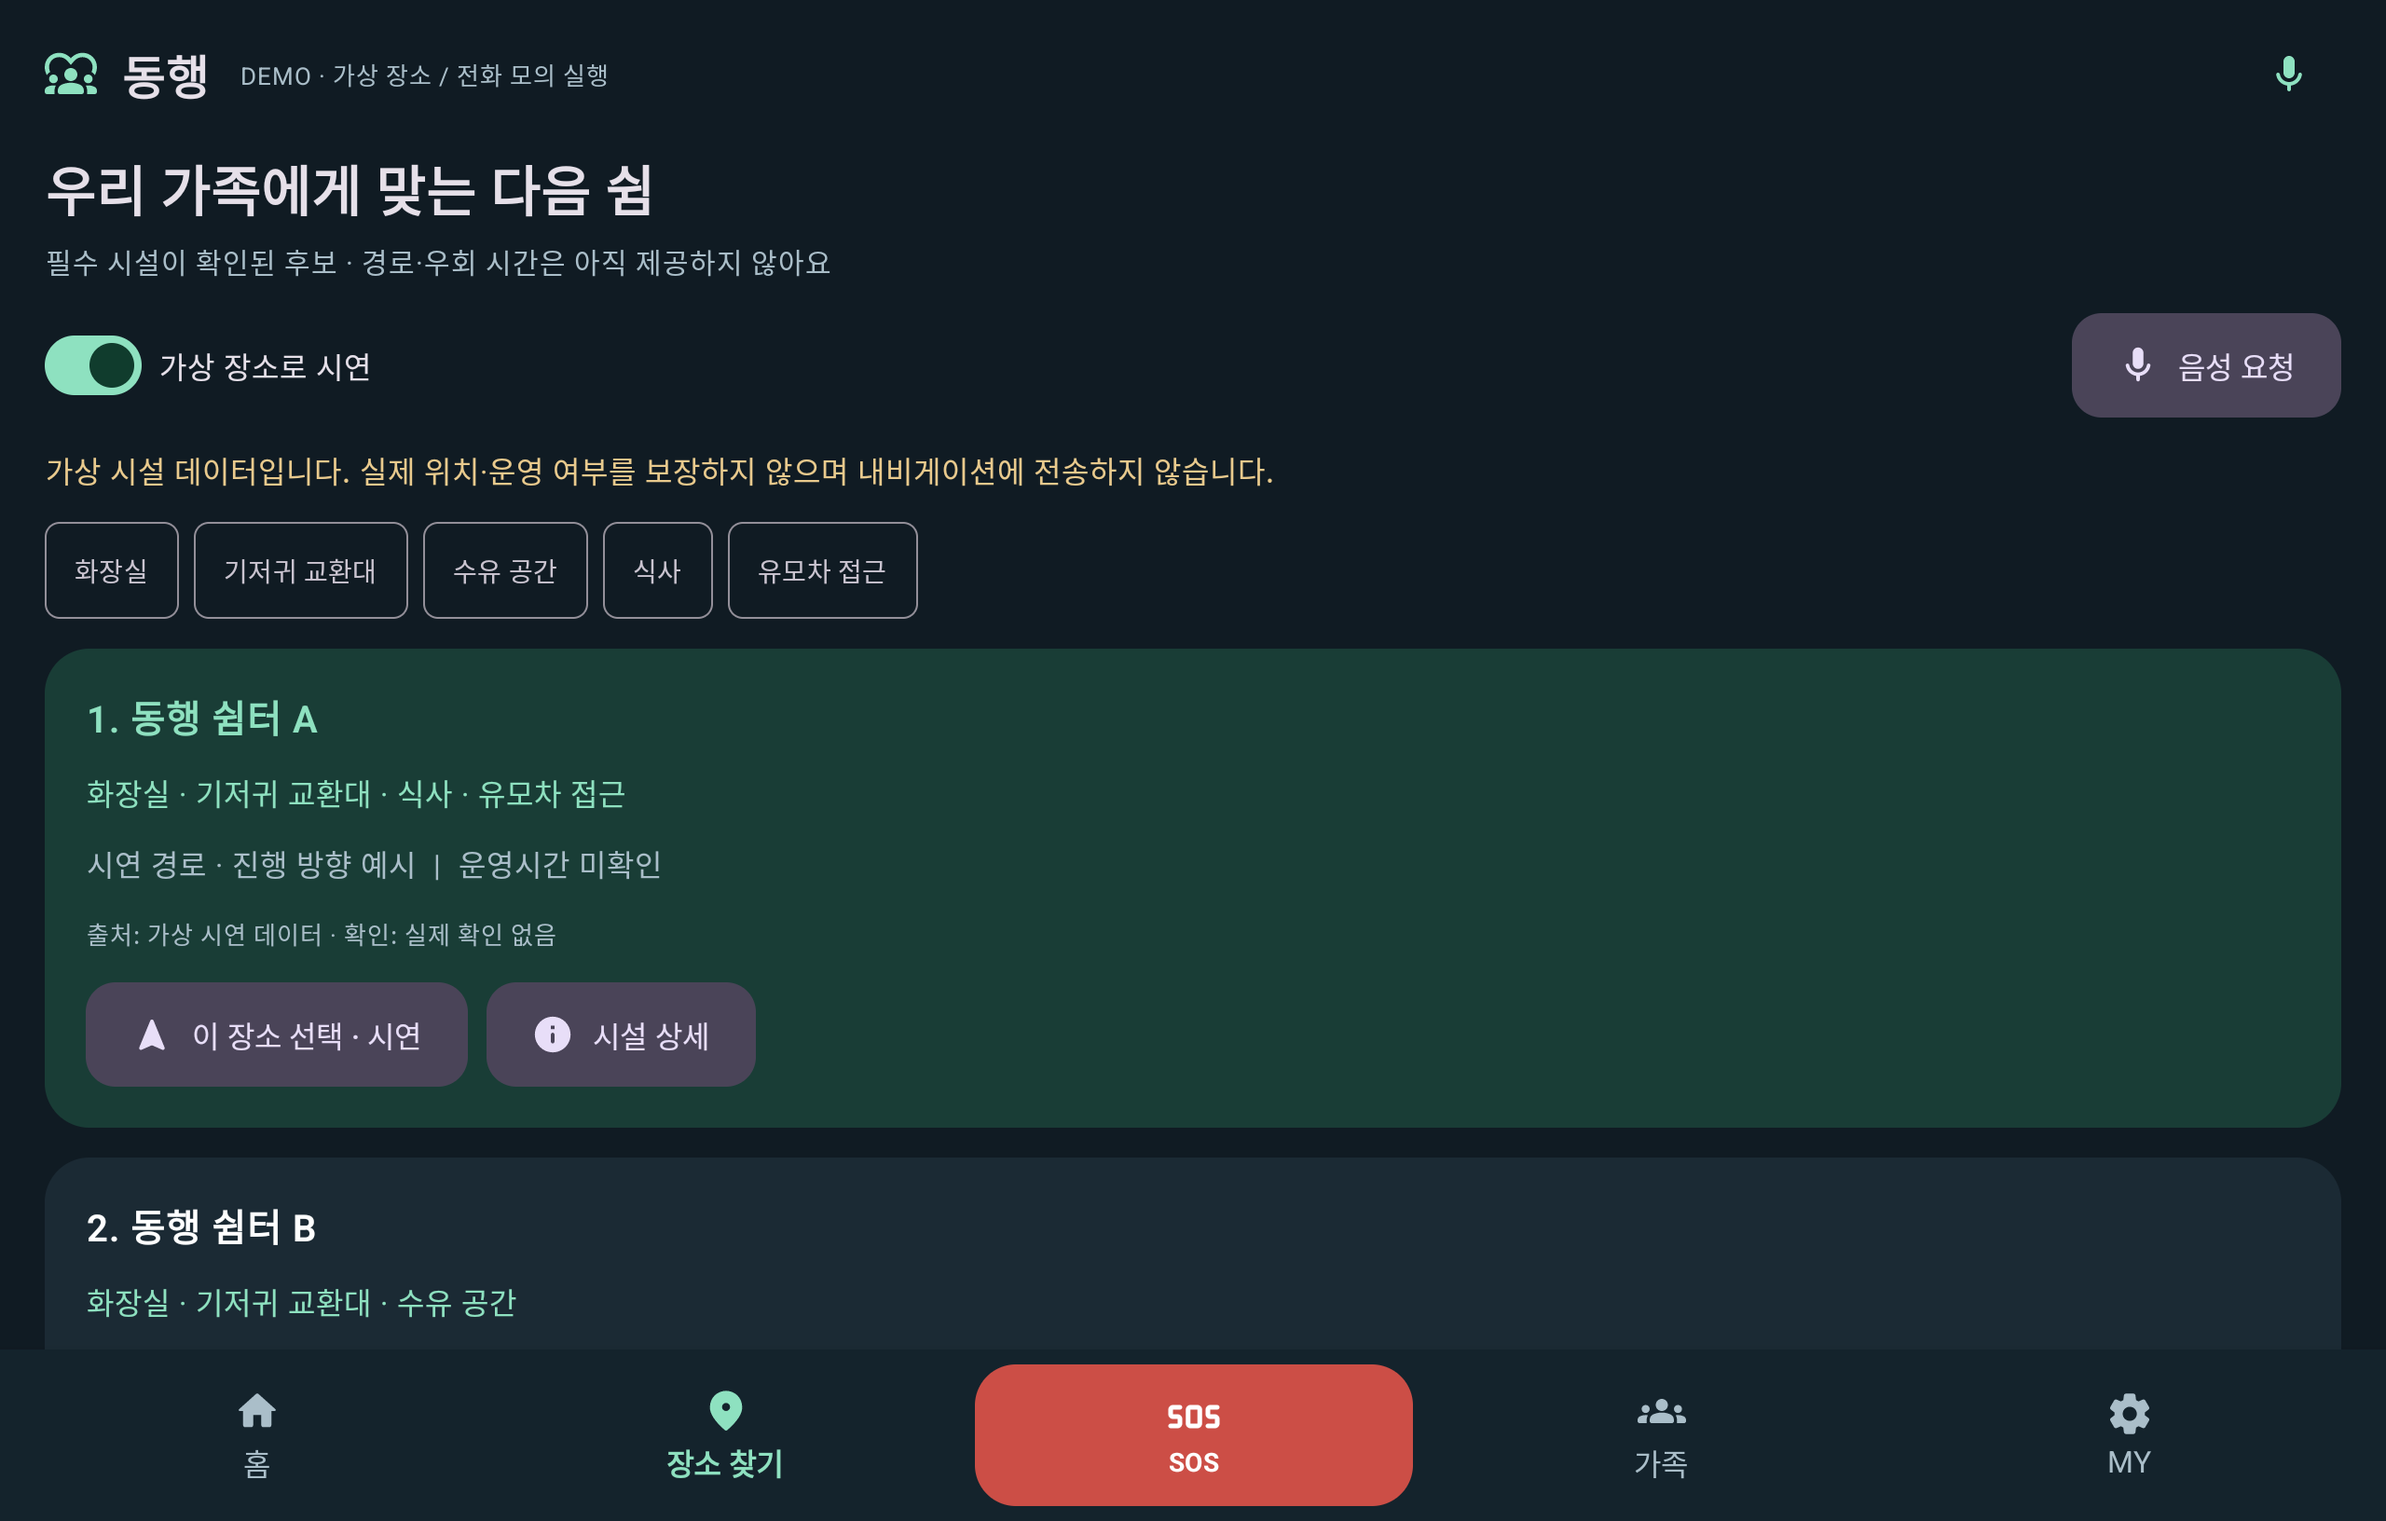
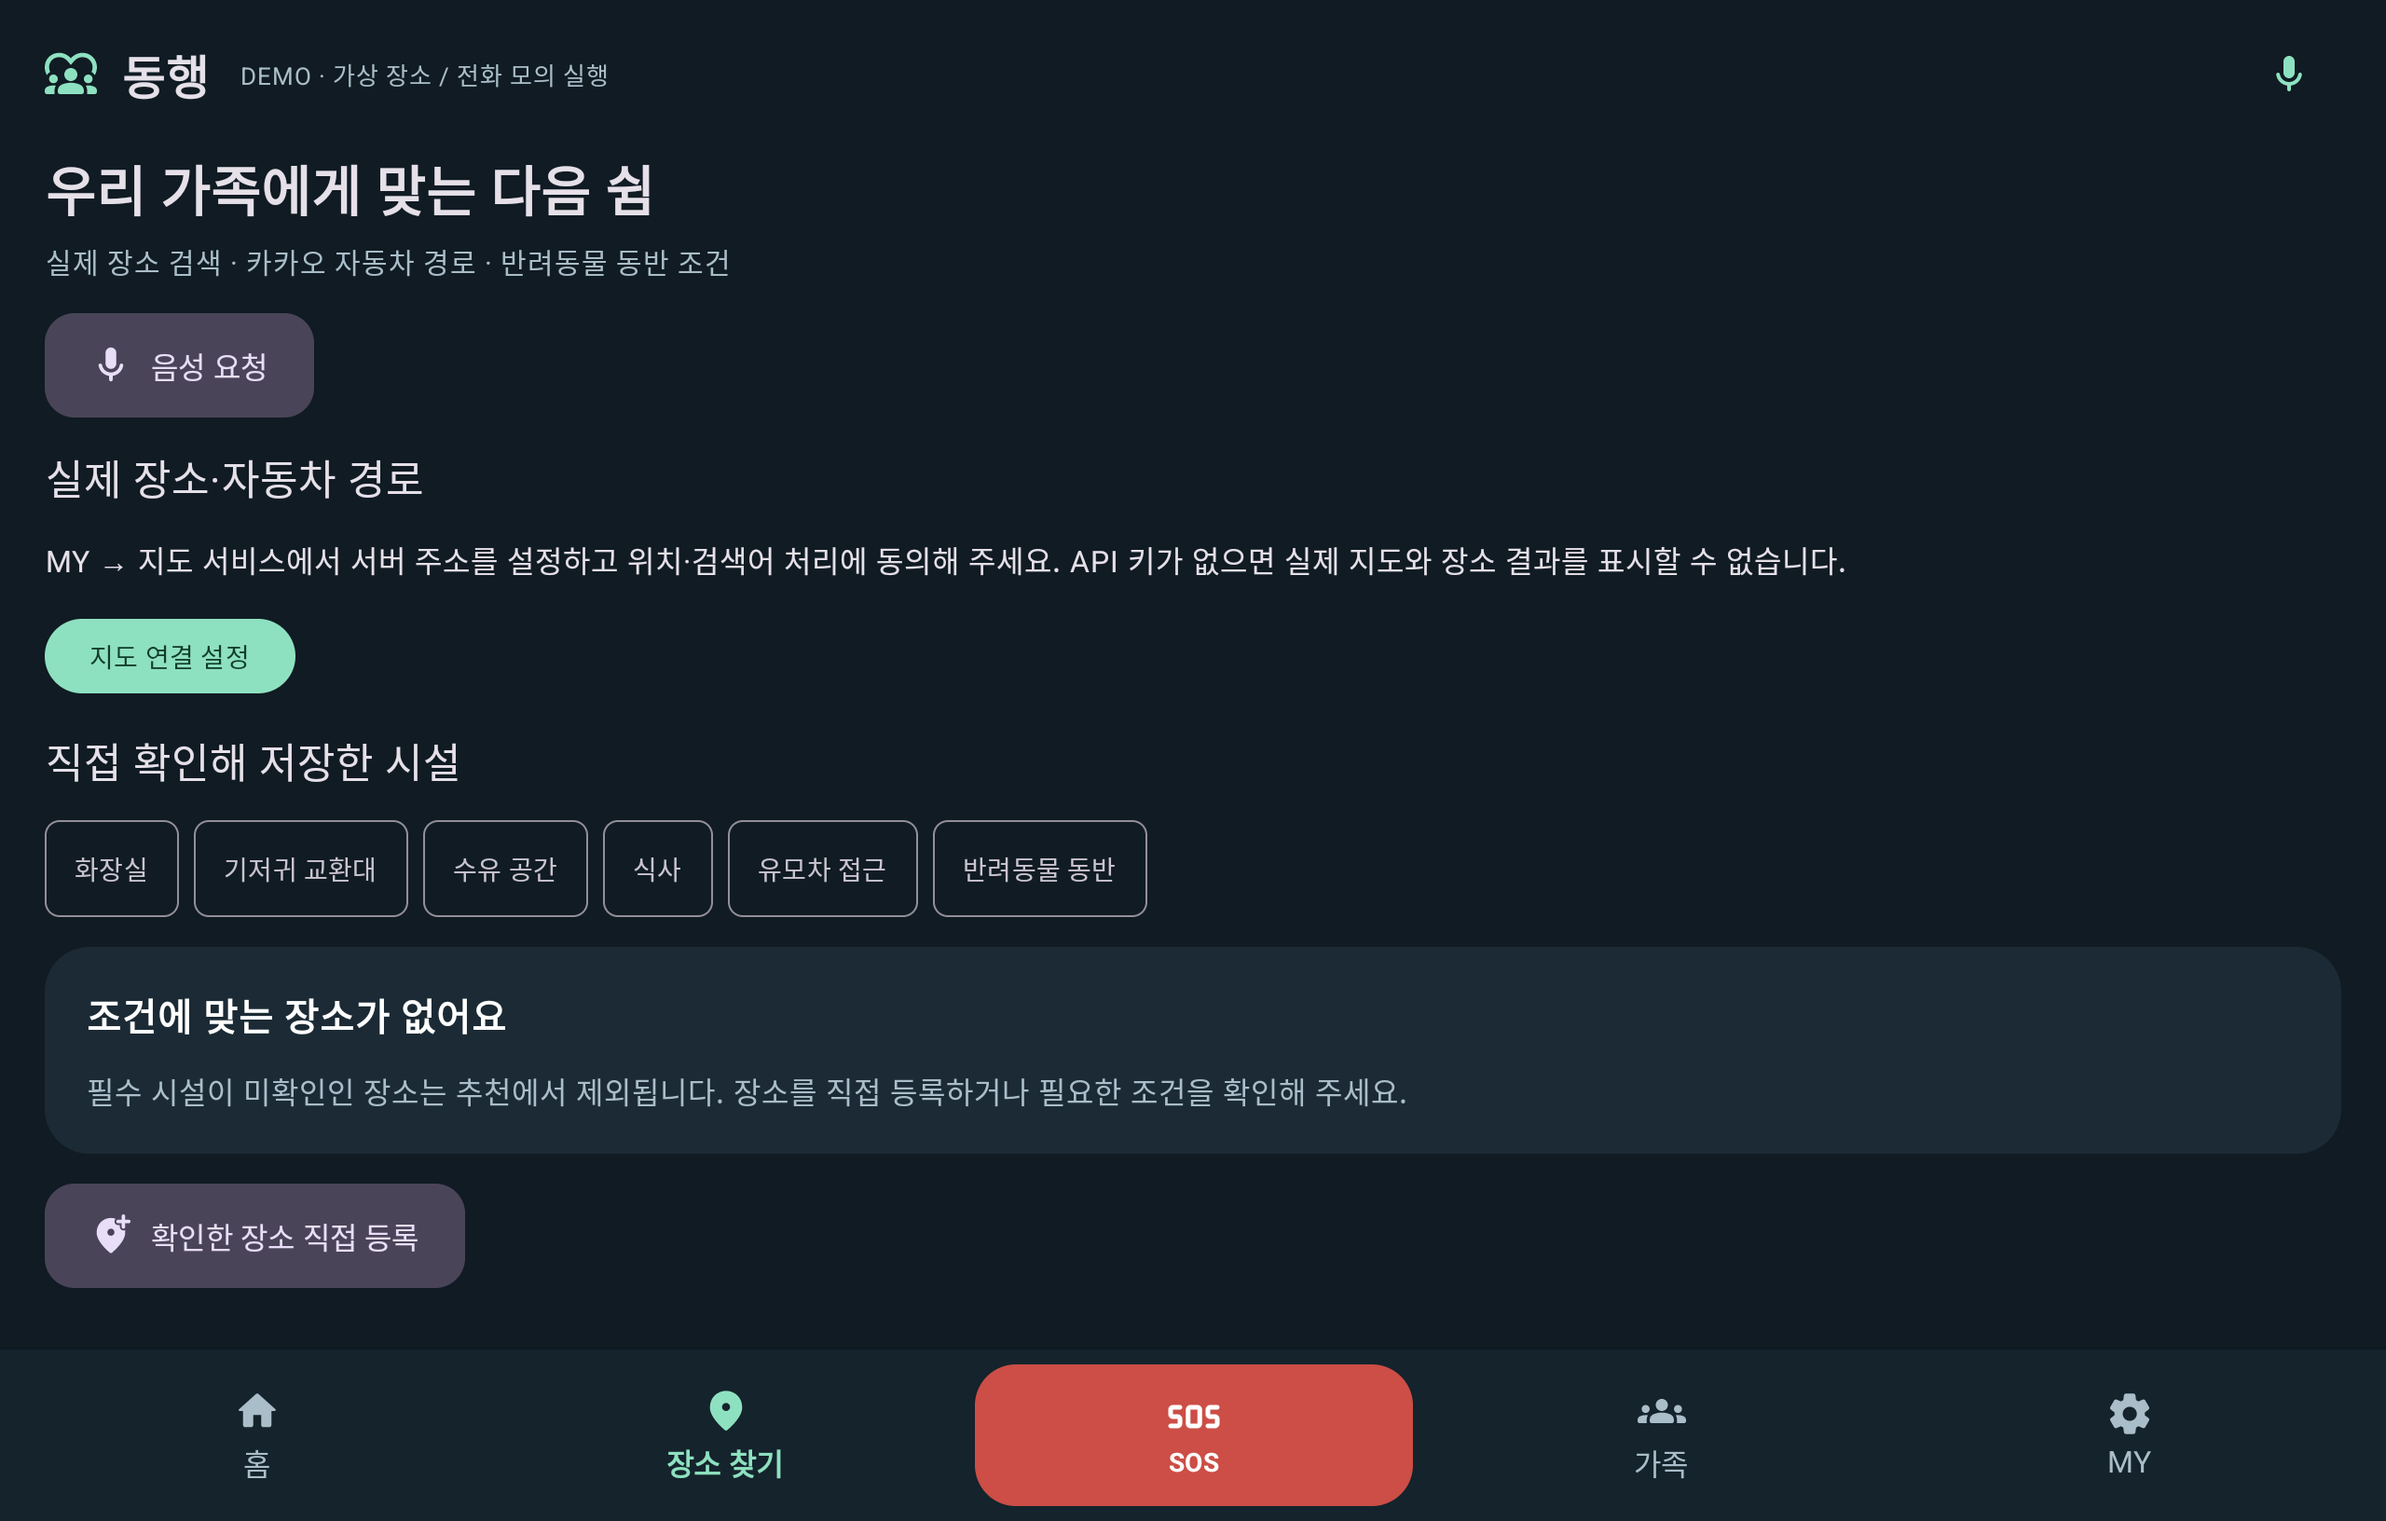
docs: record live-map build tests and API-key verification limits [skip ci]

diff --git a/docs/VALIDATION.md b/docs/VALIDATION.md
@@ -1,5 +1,17 @@
 # 검증 기록 · 2026-10-24
 
+## 실제 지도·반려동물 확장 검증
+
+검증 소스: `dda1937bd4065d88af7dd73643d896c9dc636167` · [Actions 실행](https://github.com/tjdus3725/contest_project/actions/runs/40086578508)
+
+- 핵심 로직 테스트 15개, 서버 HTTP·좌표·경로 주변 필터 테스트 10개 통과.
+- demoDebug / pleosDebug APK 빌드 및 두 변형 Lint 통과.
+- 일반 API 34 에뮬레이터에서 화면 전환·SOS 모의 실행 테스트 2개 통과.
+- 아래 화면은 최신 앱의 기본 상태입니다. 지도 동의·키·서버 연결 전 안내 화면을 포함합니다.
+- **본인 카카오 키가 없어 실제 지도 타일·실제 장소 응답·길찾기 실서비스 호출은 검증하지 못했습니다.** 서버 테스트는 외부 응답 fixture를 사용한 계약·오류 처리 검증입니다. 설정 후 [연결 절차](KAKAO_SETUP.md)의 실제 API 시험을 진행해야 합니다.
+
+## 최초 버전 검증 기록
+
 검증한 앱 소스 커밋: `39306d58dd0fd23c1342f9ce39f7f7da9666373f`.
 
 [GitHub Actions 실행 결과](https://github.com/tjdus3725/contest_project/actions/runs/40074678093)
